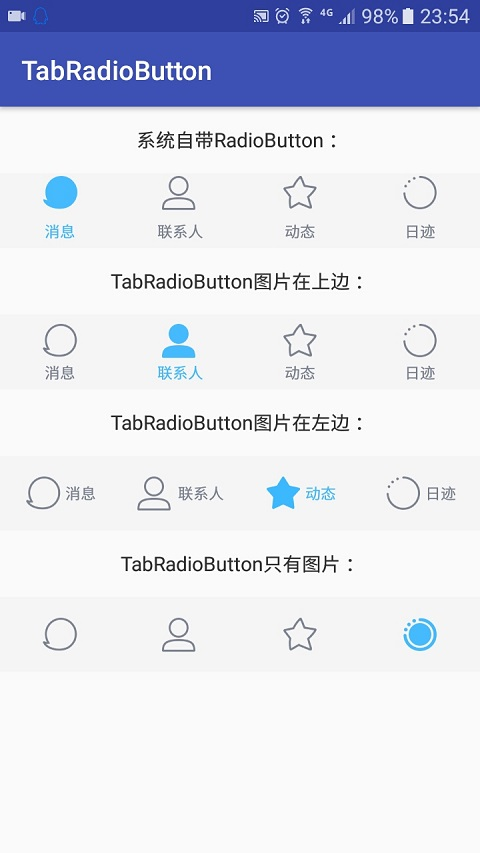
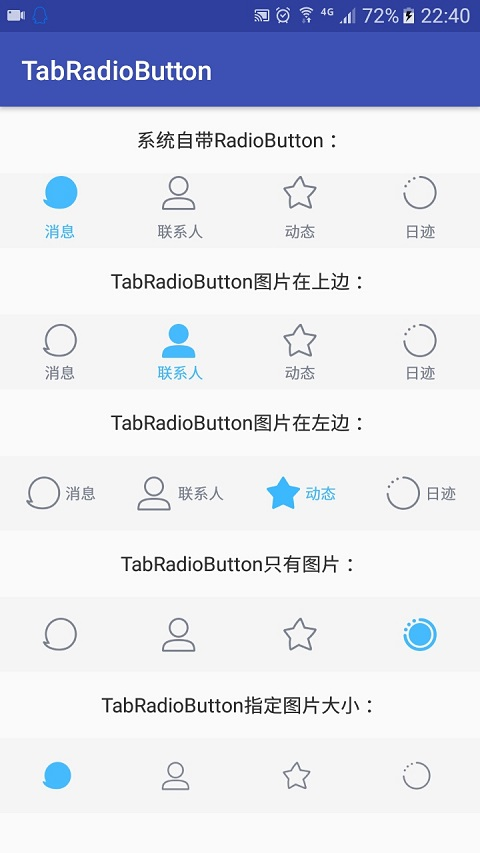
点击和松开时增加缩放动画效果

diff --git a/tabradiobutton/src/main/java/com/zaaach/tabradiobutton/TabRadioButton.java b/tabradiobutton/src/main/java/com/zaaach/tabradiobutton/TabRadioButton.java
@@ -1,27 +1,53 @@
 package com.zaaach.tabradiobutton;
 
+import android.animation.Animator;
+import android.animation.AnimatorInflater;
+import android.animation.AnimatorSet;
+import android.animation.ObjectAnimator;
 import android.content.Context;
+import android.content.res.TypedArray;
 import android.graphics.Canvas;
 import android.graphics.Paint;
-import android.graphics.Rect;
 import android.graphics.drawable.Drawable;
 import android.text.TextUtils;
 import android.util.AttributeSet;
 import android.view.Gravity;
+import android.view.MotionEvent;
 
 /**
  * @Author: Bro0cL
  * @Date: 2017/12/27 16:25
- * @Discription: 图片和文字居中的RadioButton，只处理左边或上边有图片的情况
+ * 图片和文字居中的RadioButton，只处理左边或上边有图片的情况，
+ * 可以启用默认的缩放动画：在手指按下时会有缩小动画，在手指离开时有复原动画
  */
 
 public class TabRadioButton extends android.support.v7.widget.AppCompatRadioButton {
+    /** 默认缩放动画，缩放比例为3/4 */
+    private static final float DEFAULT_SCALE_RATE = 0.75f;
+    /** 默认缩放动画的时长 */
+    private static final int DEFAULT_DURATION = 200;
+    /** 如果drawable的size为-1，则显示其默认大小 */
+    private static final int DEFAULT_DRAWABLE_SIZE = -1;
+
     private Drawable leftDrawable;
     private Drawable topDrawable;
+    private Drawable rightDrawable;
+    private Drawable bottomDrawable;
+    /** 指定drawable的大小 */
+    private int drawableSize;
     private int drawablePadding;
     private String text;
-    private float textHeight = 0;
-    private float textWidth = 0;
+    private float textHeight;
+    private float textWidth;
+
+    /** 是否启用动画效果 */
+    private boolean enableAnimation;
+    /** 手指按下时的动画 */
+    private Animator pressedAnimator;
+    /** 手指离开时的动画 */
+    private Animator releasedAnimator;
+    private long duration;
+    private float scaleRate;
 
     public TabRadioButton(Context context) {
         this(context, null);
@@ -33,8 +59,20 @@ public class TabRadioButton extends android.support.v7.widget.AppCompatRadioButt
 
     public TabRadioButton(Context context, AttributeSet attrs, int defStyleAttr) {
         super(context, attrs, defStyleAttr);
-
+        parseAttrs(context, attrs);
         init();
+    }
+
+    private void parseAttrs(Context context, AttributeSet attrs) {
+        TypedArray array = context.obtainStyledAttributes(attrs, R.styleable.TabRadioButton);
+        drawableSize = array.getDimensionPixelSize(R.styleable.TabRadioButton_trb_drawable_size, DEFAULT_DRAWABLE_SIZE);
+        scaleRate = array.getFloat(R.styleable.TabRadioButton_trb_scale_rate, DEFAULT_SCALE_RATE);
+        duration = array.getInteger(R.styleable.TabRadioButton_trb_duration, DEFAULT_DURATION);
+        enableAnimation = array.getBoolean(R.styleable.TabRadioButton_trb_enable_animation, false);
+        drawableSize = drawableSize < 0
+                ? -1
+                : drawableSize;
+        array.recycle();
     }
 
     private void init() {
@@ -45,6 +83,35 @@ public class TabRadioButton extends android.support.v7.widget.AppCompatRadioButt
         if (TextUtils.isEmpty(text)){
             setTextSize(0);
         }
+
+        //初始化动画
+        pressedAnimator = getAnimator(true);
+        releasedAnimator = getAnimator(false);
+    }
+
+    @Override
+    public boolean onTouchEvent(MotionEvent event) {
+        this.performClick();
+        switch (event.getAction()){
+            case MotionEvent.ACTION_DOWN:
+                //手指按下时开始动画
+                if (enableAnimation && !pressedAnimator.isRunning()){
+                    pressedAnimator.start();
+                }
+                break;
+            case MotionEvent.ACTION_UP:
+                //手指离开时进行复原
+                if (enableAnimation && !releasedAnimator.isRunning()){
+                    releasedAnimator.start();
+                }
+                break;
+        }
+        return super.onTouchEvent(event);
+    }
+
+    @Override
+    public boolean performClick() {
+        return super.performClick();
     }
 
     @Override
@@ -52,6 +119,8 @@ public class TabRadioButton extends android.support.v7.widget.AppCompatRadioButt
         Drawable[] drawables = getCompoundDrawables();
         leftDrawable = drawables[0];
         topDrawable = drawables[1];
+        rightDrawable = drawables[2];
+        bottomDrawable = drawables[3];
 
         textWidth = getFontWidth(getPaint(), text);
         textHeight = getFontHeight(getPaint());
@@ -60,21 +129,48 @@ public class TabRadioButton extends android.support.v7.widget.AppCompatRadioButt
 
         int drawableWidth;
         int drawableHeight;
-        //图片在文字左边
-        if (leftDrawable != null && topDrawable == null){
-            drawableWidth = leftDrawable.getIntrinsicWidth();
-            drawableHeight = leftDrawable.getIntrinsicHeight();
+        //只有左边有图片
+        if (leftDrawable != null && topDrawable == null && rightDrawable == null && bottomDrawable == null){
+            drawableWidth = drawableSize < 0
+                    ? leftDrawable.getIntrinsicWidth()
+                    : drawableSize;
+            drawableHeight = drawableSize < 0
+                    ? leftDrawable.getIntrinsicHeight()
+                    : drawableSize;
             int left = (int) ((this.getWidth() - drawableWidth - drawablePadding - textWidth) / 2);
             leftDrawable.setBounds(left, 0, left + drawableWidth, drawableHeight);
         }
-        //图片在文字上边
-        if (topDrawable != null && leftDrawable == null){
-            drawableWidth = topDrawable.getIntrinsicWidth();
-            drawableHeight = topDrawable.getIntrinsicHeight();
+        //只有上边有图片
+        if (topDrawable != null && leftDrawable == null && rightDrawable == null && bottomDrawable == null){
+            drawableWidth = drawableSize < 0
+                    ? topDrawable.getIntrinsicWidth()
+                    : drawableSize;
+            drawableHeight = drawableSize < 0
+                    ? topDrawable.getIntrinsicHeight()
+                    : drawableSize;
             int top = (int) ((this.getHeight() - drawableHeight - drawablePadding - textHeight) / 2);
             topDrawable.setBounds(0, top, drawableWidth, top + drawableHeight);
         }
         super.onDraw(canvas);
+    }
+
+    /**
+     * @param whenPressed 是否是按下时的动画
+     * @return
+     */
+    private Animator getAnimator(boolean whenPressed) {
+        return getDefaultScaleAnimator(whenPressed ? 1.0f : scaleRate,
+                whenPressed ? scaleRate : 1.0f, duration);
+    }
+
+    private Animator getDefaultScaleAnimator(float from, float to, long duration){
+        AnimatorSet animatorSet = new AnimatorSet();
+        ObjectAnimator animatorX = ObjectAnimator.ofFloat(this, "ScaleX", from, to);
+        ObjectAnimator animatorY = ObjectAnimator.ofFloat(this, "ScaleY", from, to);
+        animatorSet.play(animatorX).with(animatorY);
+        animatorSet.setDuration(duration);
+        animatorSet.setTarget(this);
+        return animatorSet;
     }
 
     private float getFontWidth(Paint paint, String text) {
@@ -84,5 +180,17 @@ public class TabRadioButton extends android.support.v7.widget.AppCompatRadioButt
     private float getFontHeight(Paint paint){
         Paint.FontMetrics fm = paint.getFontMetrics();
         return fm.descent - fm.ascent;
+    }
+
+    public void setEnableAnimation(boolean enableAnimation) {
+        this.enableAnimation = enableAnimation;
+    }
+
+    public void setDuration(long duration) {
+        this.duration = duration;
+    }
+
+    public void setScaleRate(float scaleRate) {
+        this.scaleRate = scaleRate;
     }
 }

diff --git a/README.md b/README.md
@@ -6,15 +6,19 @@
 
 TabRadioButton只对 `drawableLeft` 和`drawableTop`方向上的图片做了居中处理（这两个方向一般用的比较多）
 
+-   图片和文字居中
+-   可指定drawable的大小
+-   自带缩放动画效果，手指按下和松开时触发（需要开启）
+
 ## Preview
 
-![screenshot](https://github.com/zaaach/TabRadioButton/raw/master/art/screen.jpg)
+<image src="https://github.com/zaaach/TabRadioButton/raw/master/art/screen.gif" style="zoom:60%">
 
 ## Download
 
 Gradle:
 ```gradle
-compile 'com.zaaach:tabradiobutton:1.0.0'
+compile 'com.zaaach:tabradiobutton:1.0.1'
 ```
 
 or Maven:
@@ -22,43 +26,64 @@ or Maven:
 <dependency>
   <groupId>com.zaaach</groupId>
   <artifactId>tabradiobutton</artifactId>
-  <version>1.0.0</version>
+  <version>1.0.1</version>
   <type>pom</type>
 </dependency>
 ```
 
 ## How to use
 
-用到`RadioButton`的地方替换成`TabRadioButton` 就可以了，so easy ~ ~ ~
-
-添加图片时用`drawableLeft` 和 `drawableTop` 这两个属性！！！
+1.  `TabRadioButton` 添加图片时要用`drawableLeft` 或 `drawableTop` 这两个属性~
+2.  若需要动画效果，添加一行属性 `trb_enable_animation="true"` 即可启用缩放动画效果
 
 ```xml
 <RadioGroup
-     android:id="@+id/rg_top"
      style="@style/TabRadioGroup">
      <com.zaaach.tabradiobutton.TabRadioButton
-     		style="@style/TabRadioButtonWithText"
-     		android:drawableTop="@drawable/tab_conversation_icon_selector"
-     		android:text="@string/conversation" />
-     <com.zaaach.tabradiobutton.TabRadioButton
-          	android:id="@+id/rb_contact"
-            style="@style/TabRadioButtonWithText"
-            android:drawableTop="@drawable/tab_contact_icon_selector"
-            android:text="@string/contact" />
-     <com.zaaach.tabradiobutton.TabRadioButton
-            style="@style/TabRadioButtonWithText"
-            android:drawableTop="@drawable/tab_plugin_icon_selector"
-            android:text="@string/plugin" />
-     <com.zaaach.tabradiobutton.TabRadioButton
-            style="@style/TabRadioButtonWithText"
-            android:drawableTop="@drawable/tab_now_icon_selector"
-            android:text="@string/now" />
+      	style="@style/TabRadioButtonWithText"
+      	android:drawableTop="@drawable/tab_contact_icon_selector"
+      	app:trb_enable_animation="true"
+      	app:trb_drawable_size="24dp"
+      	app:trb_scale_rate="0.8"
+      	app:trb_duration="200"/>
 </RadioGroup>
 ```
+`attrs.xml` 自定义的属性：
+
+```xml
+<declare-styleable name="TabRadioButton">
+  		<!-- 启用动画效果 -->
+        <attr name="trb_enable_animation" format="boolean"/>
+  		<!-- 动画时长 -->
+        <attr name="trb_duration" format="integer"/>
+  		<!-- 缩放比例 -->
+        <attr name="trb_scale_rate" format="float"/>
+  		<!-- drawable大小 -->
+        <attr name="trb_drawable_size" format="dimension"/>
+</declare-styleable>
+```
+
+`@style/TabRadioButtonWithText` 内容如下：
+
+```xml
+<style name="TabRadioButtonWithText">
+        <item name="android:layout_width">0dp</item>
+        <item name="android:layout_height">match_parent</item>
+        <item name="android:layout_weight">1</item>
+        <item name="android:button">@null</item>
+        <item name="android:background">@null</item>
+        <item name="android:textSize">12sp</item>
+        <item name="android:textColor">@drawable/tab_text_color_selector</item>
+        <item name="android:drawablePadding">2dp</item>
+</style>
+```
+
 ## Try it
 
 :wink:
 
-## 还有红包~
-![红包](https://github.com/zaaach/CityPicker/blob/city-picker/art/1514356638768.jpg)
+## 赞赏
+如果你喜欢 TabRadioButton，感觉 TabRadioButton 帮助到了你，可以点右上角 "Star" 支持一下，谢谢！ ^_^
+你还可以扫描下面的二维码~ 请作者喝一杯咖啡。
+
+![支付宝](https://github.com/zaaach/TabRadioButton/raw/master/art/alipay.jpg)![微信支付](https://github.com/zaaach/TabRadioButton/raw/master/art/wechatpay.jpg)
